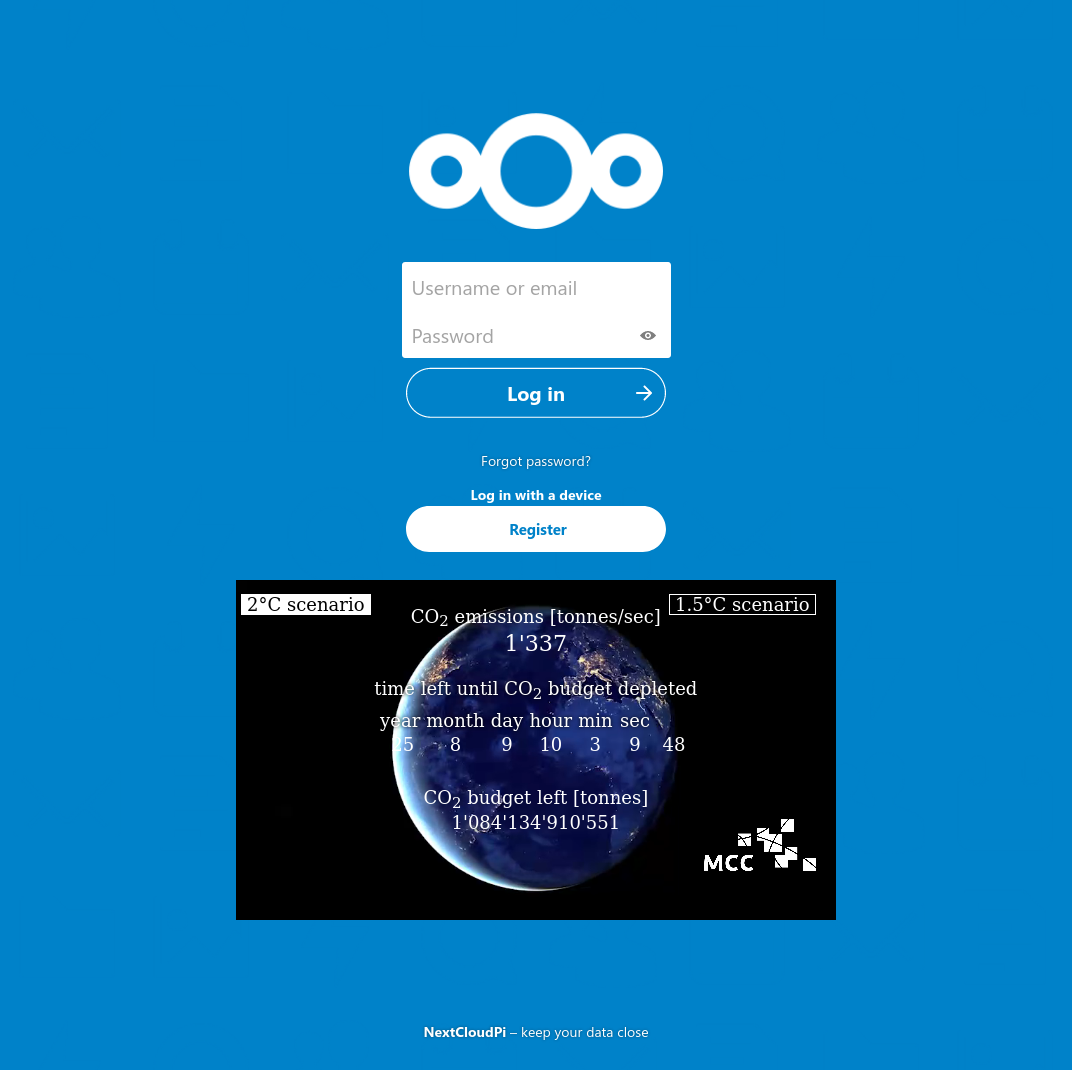
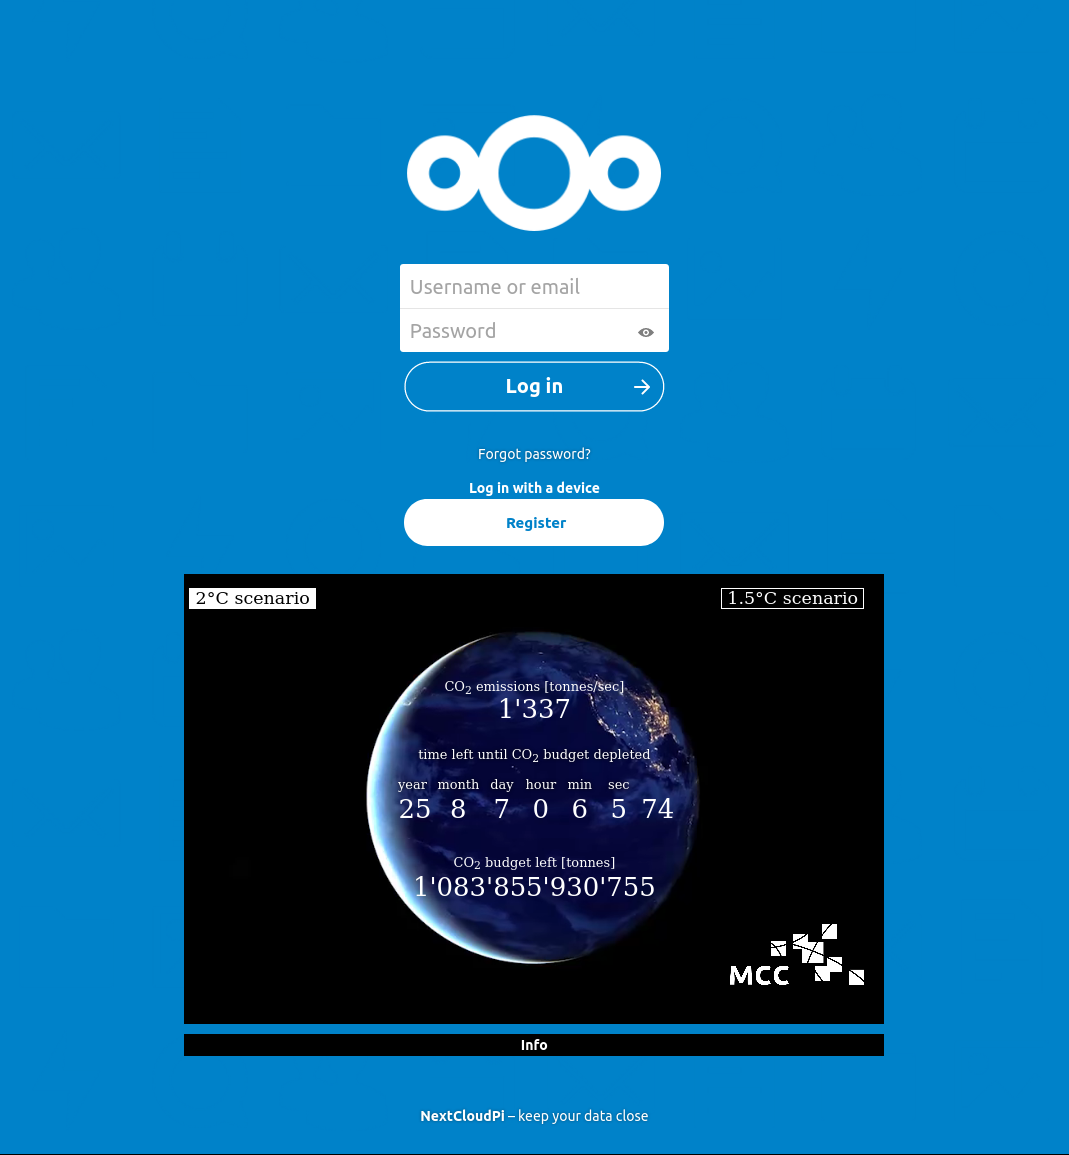
inject_iframe.js: Add Info button

Changed region(s): [[0.1543, 0.0925, 0.8335, 0.9252], [0.4013, 0.9561, 0.6174, 0.9869]]

diff --git a/js/inject_iframe.js b/js/inject_iframe.js
@@ -1,12 +1,31 @@
 (function() {
+
+  let co2clock_container = document.createElement("div");
+  co2clock_container.style.width = "100%";
+  co2clock_container.style.display = "block";
+  co2clock_container.style.marginTop = "2em";
+  co2clock_container.style.marginBottom = "2em";
+  co2clock_container.style.textAlign = "center";
+
   let frame = document.createElement("iframe");
   frame.setAttribute("src", "https://www.mcc-berlin.net/fileadmin/data/clock/carbon_clock.htm?i=3267263");
   frame.style.width = "700px";
   frame.style.height = "450px";
-  frame.style.marginTop = "2em";
-  frame.style.marginBottom = "2em";
+  frame.style.marginBottom = "4px";
 
-  document.querySelector(".wrapper .v-align").appendChild(frame);
+
+  let info_link = document.createElement("a");
+  info_link.innerText = "Info";
+  info_link.href = "https://www.mcc-berlin.net/en/research/co2-budget.html";
+  info_link.style.display = "block";
+  info_link.style.width = "700px";
+  info_link.style.backgroundColor = "black";
+
+  co2clock_container.appendChild(frame);
+  co2clock_container.appendChild(info_link);
+
+  let wrapper = document.querySelector(".wrapper .v-align");
+  wrapper.appendChild(co2clock_container);
 
   let zoom = (window.screen.availWidth - 10) /frame.clientWidth;
   //console.log(`window width: ${window.screen.availWidth}, frame width: ${frame.clientWidth}|${frame.offsetWidth}, zoom: ${zoom}`);
@@ -15,6 +34,10 @@
     frame.style.transform = `scale(${zoom})`;
     let frameMargin = Math.floor((window.screen.availWidth - (frame.clientWidth * zoom)));
     frame.style.transformOrigin = `${frameMargin}px 0`;
+    info_link.style.width = `${Math.floor(frame.clientWidth * zoom)}px`;
+    info_link.style.marginTop = `${Math.floor(frame.clientHeight * (zoom - 1))}px`;
+    info_link.style.marginLeft = "auto";
+    info_link.style.marginRight = "auto";
   }
 
 })()
